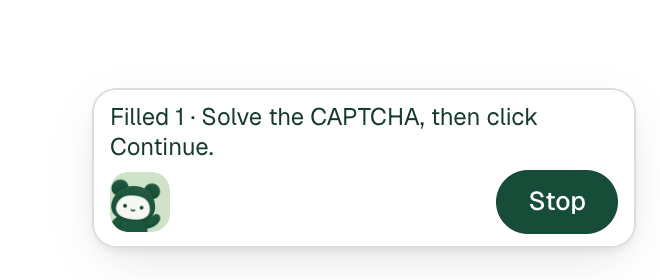
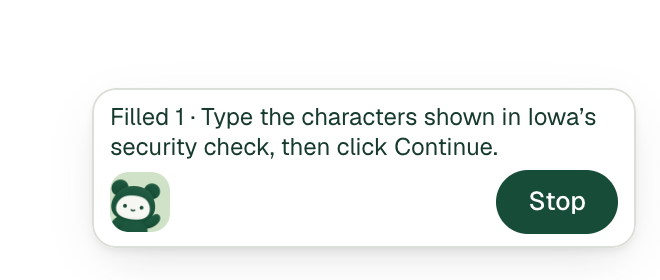
fix: name Iowa's security check in plain words
"Solve the CAPTCHA, then click Continue." is now "Type the characters
shown in Iowa's security check, then click Continue.", and the two
household lines that mention it follow, in all six languages. A test
keeps the word CAPTCHA out of every catalog.

Changed region(s): [[0.1515, 0.4857, 0.7576, 0.5714], [0.303, 0.3714, 0.9091, 0.4571]]

diff --git a/extension/strings.js b/extension/strings.js
@@ -268,7 +268,7 @@
     'iowa.reviewDependent': '{label}: review existing dependent answers',
     'iowa.choosePrograms': 'Choose at least one program',
     'iowa.manualReview': 'Check the questions and any Iowa error messages on this page, because something here isn’t what SecondHand expects',
-    'iowa.solveCaptcha': 'Solve the CAPTCHA, then click Continue.',
+    'iowa.solveCaptcha': 'Type the characters shown in Iowa’s security check, then click Continue.',
     'iowa.acceptConsent': 'Read and accept Iowa’s consent, then click Continue.',
     'iowa.signIn': 'Sign in or verify in Iowa’s form, then continue.',
     'iowa.answerPopup': 'Answer Iowa’s pop-up, then continue.',
@@ -299,7 +299,7 @@
     'iowa.startDetailsTodo': 'Answer the remaining questions, then click Save and Continue in Iowa’s form yourself.',
     'iowa.startDetailsReason': 'SecondHand can fill the answers you saved in My information on this page. Answer the other questions yourself, then click Save and Continue in Iowa’s form.',
     'iowa.clickContinue': 'Click Continue in Iowa’s form.',
-    'iowa.programIntentReason': 'Answer whether anyone is applying, then solve the CAPTCHA.',
+    'iowa.programIntentReason': 'Answer whether anyone is applying, then type the characters shown in Iowa’s security check.',
     'iowa.missingAnswers': 'Answer what is left in Iowa’s form. When the page is complete, SecondHand goes to the next one.',
     'iowa.canSaveContinue': 'SecondHand can save this page and continue. Review every answer before final submission.',
     'iowa.remainingQuestions': 'Answer the remaining questions and correct any errors in Iowa’s form.',
@@ -324,7 +324,7 @@
     'iowa.addressPageChanged': 'The address page changed after selection. Review it before continuing.',
     'iowa.nextNotActivated': 'Iowa’s Next control could not be activated. Check the page before trying again.',
     'iowa.nextUnsafe': 'The Next button is not safely accessible. Continue in Iowa’s form.',
-    'iowa.programIntentTodo': 'Answer whether anyone is applying, solve the CAPTCHA, then click Continue.',
+    'iowa.programIntentTodo': 'Answer whether anyone is applying, type the characters shown in Iowa’s security check, then click Continue.',
     'iowa.assistanceTodo': 'If nobody is helping you, leave this blank and click Continue.',
     'iowa.pickAddress': 'Pick the correct address, then click Continue.'
   });
@@ -586,7 +586,7 @@
     'iowa.reviewDependent': '{label}: revise las respuestas relacionadas que ya están',
     'iowa.choosePrograms': 'Elija al menos un programa',
     'iowa.manualReview': 'Revise las preguntas y cualquier mensaje de error de Iowa en esta página, porque algo aquí no es lo que SecondHand espera',
-    'iowa.solveCaptcha': 'Resuelva el CAPTCHA y luego haga clic en “Continue”.',
+    'iowa.solveCaptcha': 'Escriba los caracteres que muestra la prueba de seguridad de Iowa y luego haga clic en “Continue”.',
     'iowa.acceptConsent': 'Lea y acepte el consentimiento de Iowa y luego haga clic en “Continue”.',
     'iowa.signIn': 'Inicie sesión o verifique su identidad en el formulario de Iowa y luego continúe.',
     'iowa.answerPopup': 'Responda la ventana emergente de Iowa y luego continúe.',
@@ -617,7 +617,7 @@
     'iowa.startDetailsTodo': 'Conteste las preguntas restantes y luego haga clic usted mismo en “Save and Continue” en el formulario de Iowa.',
     'iowa.startDetailsReason': 'SecondHand puede llenar en esta página las respuestas que guardó en “My information”. Conteste usted mismo las demás preguntas y luego haga clic en “Save and Continue” en el formulario de Iowa.',
     'iowa.clickContinue': 'Haga clic en “Continue” en el formulario de Iowa.',
-    'iowa.programIntentReason': 'Responda si alguien está solicitando y luego resuelva el CAPTCHA.',
+    'iowa.programIntentReason': 'Responda si alguien está solicitando y luego escriba los caracteres que muestra la prueba de seguridad de Iowa.',
     'iowa.missingAnswers': 'Conteste lo que falta en el formulario de Iowa. Cuando la página esté completa, SecondHand pasará a la siguiente.',
     'iowa.canSaveContinue': 'SecondHand puede guardar esta página y continuar. Revise cada respuesta antes del envío final.',
     'iowa.remainingQuestions': 'Conteste las preguntas restantes y corrija los errores en el formulario de Iowa.',
@@ -642,7 +642,7 @@
     'iowa.addressPageChanged': 'La página de dirección cambió después de elegir. Revísela antes de continuar.',
     'iowa.nextNotActivated': 'No se pudo activar el botón “Next” de Iowa. Revise la página antes de intentarlo otra vez.',
     'iowa.nextUnsafe': 'No es seguro usar el botón “Next” desde aquí. Continúe en el formulario de Iowa.',
-    'iowa.programIntentTodo': 'Responda si alguien está solicitando, resuelva el CAPTCHA y luego haga clic en “Continue”.',
+    'iowa.programIntentTodo': 'Responda si alguien está solicitando, escriba los caracteres que muestra la prueba de seguridad de Iowa y luego haga clic en “Continue”.',
     'iowa.assistanceTodo': 'Si nadie le está ayudando, deje esto en blanco y haga clic en “Continue”.',
     'iowa.pickAddress': 'Elija la dirección correcta y luego haga clic en “Continue”.'
   });
@@ -903,7 +903,7 @@
     'iowa.reviewDependent': '{label}: hãy xem lại các câu trả lời phụ thuộc đã có',
     'iowa.choosePrograms': 'Hãy chọn ít nhất một chương trình',
     'iowa.manualReview': 'Hãy kiểm tra các câu hỏi và mọi thông báo lỗi của Iowa trên trang này, vì có điều gì đó ở đây không như SecondHand dự kiến',
-    'iowa.solveCaptcha': 'Hãy giải CAPTCHA, rồi bấm “Continue”.',
+    'iowa.solveCaptcha': 'Hãy nhập các ký tự hiện trong phần kiểm tra bảo mật của Iowa, rồi bấm “Continue”.',
     'iowa.acceptConsent': 'Hãy đọc và chấp nhận điều khoản đồng ý của Iowa, rồi bấm “Continue”.',
     'iowa.signIn': 'Hãy đăng nhập hoặc xác minh trong biểu mẫu của Iowa, rồi tiếp tục.',
     'iowa.answerPopup': 'Hãy trả lời cửa sổ bật lên của Iowa, rồi tiếp tục.',
@@ -934,7 +934,7 @@
     'iowa.startDetailsTodo': 'Hãy trả lời các câu hỏi còn lại, rồi tự bấm “Save and Continue” trong biểu mẫu của Iowa.',
     'iowa.startDetailsReason': 'SecondHand có thể điền trên trang này các câu trả lời bạn đã lưu trong “My information”. Hãy tự trả lời các câu hỏi khác, rồi bấm “Save and Continue” trong biểu mẫu của Iowa.',
     'iowa.clickContinue': 'Hãy bấm “Continue” trong biểu mẫu của Iowa.',
-    'iowa.programIntentReason': 'Hãy trả lời có ai đang xin hay không, rồi giải CAPTCHA.',
+    'iowa.programIntentReason': 'Hãy trả lời có ai đang xin hay không, rồi nhập các ký tự hiện trong phần kiểm tra bảo mật của Iowa.',
     'iowa.missingAnswers': 'Hãy trả lời những câu còn lại trong biểu mẫu của Iowa. Khi trang đã đủ, SecondHand sẽ chuyển sang trang kế tiếp.',
     'iowa.canSaveContinue': 'SecondHand có thể lưu trang này và tiếp tục. Hãy xem lại từng câu trả lời trước khi nộp lần cuối.',
     'iowa.remainingQuestions': 'Hãy trả lời các câu hỏi còn lại và sửa mọi lỗi trong biểu mẫu của Iowa.',
@@ -959,7 +959,7 @@
     'iowa.addressPageChanged': 'Trang địa chỉ đã thay đổi sau khi chọn. Hãy xem lại trước khi tiếp tục.',
     'iowa.nextNotActivated': 'Không kích hoạt được nút “Next” của Iowa. Hãy kiểm tra trang trước khi thử lại.',
     'iowa.nextUnsafe': 'Không thể bấm nút “Next” một cách an toàn. Hãy tiếp tục trong biểu mẫu của Iowa.',
-    'iowa.programIntentTodo': 'Hãy trả lời có ai đang xin hay không, giải CAPTCHA, rồi bấm “Continue”.',
+    'iowa.programIntentTodo': 'Hãy trả lời có ai đang xin hay không, nhập các ký tự hiện trong phần kiểm tra bảo mật của Iowa, rồi bấm “Continue”.',
     'iowa.assistanceTodo': 'Nếu không có ai giúp bạn, hãy để trống mục này và bấm “Continue”.',
     'iowa.pickAddress': 'Hãy chọn đúng địa chỉ, rồi bấm “Continue”.'
   });
@@ -1221,7 +1221,7 @@
     'iowa.reviewDependent': '{label}：请核对已有的相关答案',
     'iowa.choosePrograms': '请至少选择一个项目',
     'iowa.manualReview': '请检查本页的问题和爱荷华州的错误信息，因为这里有些内容与 SecondHand 预期的不一样',
-    'iowa.solveCaptcha': '请完成验证码（CAPTCHA），然后点击 “Continue”。',
+    'iowa.solveCaptcha': '请输入爱荷华州安全验证中显示的字符，然后点击 “Continue”。',
     'iowa.acceptConsent': '请阅读并接受爱荷华州的同意书，然后点击 “Continue”。',
     'iowa.signIn': '请在爱荷华州的表格中登录或验证，然后继续。',
     'iowa.answerPopup': '请回答爱荷华州的弹出窗口，然后继续。',
@@ -1252,7 +1252,7 @@
     'iowa.startDetailsTodo': '请回答其余问题，然后在爱荷华州的表格中自己点击 “Save and Continue”。',
     'iowa.startDetailsReason': 'SecondHand 可以在这个页面上填写您在“My information”中保存的答案。请自己回答其他问题，然后在爱荷华州的表格中点击 “Save and Continue”。',
     'iowa.clickContinue': '请在爱荷华州的表格中点击 “Continue”。',
-    'iowa.programIntentReason': '请回答是否有人要申请，然后完成验证码（CAPTCHA）。',
+    'iowa.programIntentReason': '请回答是否有人要申请，然后输入爱荷华州安全验证中显示的字符。',
     'iowa.missingAnswers': '请在爱荷华州的表格中回答剩下的问题。页面填完后，SecondHand 会进入下一页。',
     'iowa.canSaveContinue': 'SecondHand 可以保存这个页面并继续。最终提交前请核对每个答案。',
     'iowa.remainingQuestions': '请回答其余问题，并更正爱荷华州表格中的所有错误。',
@@ -1277,7 +1277,7 @@
     'iowa.addressPageChanged': '选择后地址页面已变化。继续之前请核对。',
     'iowa.nextNotActivated': '无法启用爱荷华州的 “Next” 按钮。重试之前请检查页面。',
     'iowa.nextUnsafe': '无法安全地点击 “Next” 按钮。请在爱荷华州的表格中继续。',
-    'iowa.programIntentTodo': '请回答是否有人要申请，完成验证码（CAPTCHA），然后点击 “Continue”。',
+    'iowa.programIntentTodo': '请回答是否有人要申请，输入爱荷华州安全验证中显示的字符，然后点击 “Continue”。',
     'iowa.assistanceTodo': '如果没有人帮助您，请将此项留空并点击 “Continue”。',
     'iowa.pickAddress': '请选择正确的地址，然后点击 “Continue”。'
   });
@@ -1539,7 +1539,7 @@
     'iowa.reviewDependent': '{label} : vérifiez les réponses liées déjà saisies',
     'iowa.choosePrograms': 'Choisissez au moins un programme',
     'iowa.manualReview': 'Vérifiez les questions et les messages d’erreur de l’Iowa sur cette page, car quelque chose ici n’est pas ce qu’attend SecondHand',
-    'iowa.solveCaptcha': 'Résolvez le CAPTCHA, puis cliquez sur « Continue ».',
+    'iowa.solveCaptcha': 'Tapez les caractères affichés dans le contrôle de sécurité de l’Iowa, puis cliquez sur « Continue ».',
     'iowa.acceptConsent': 'Lisez et acceptez le consentement de l’Iowa, puis cliquez sur « Continue ».',
     'iowa.signIn': 'Connectez-vous ou faites la vérification dans le formulaire de l’Iowa, puis continuez.',
     'iowa.answerPopup': 'Répondez à la fenêtre de l’Iowa, puis continuez.',
@@ -1570,7 +1570,7 @@
     'iowa.startDetailsTodo': 'Répondez aux autres questions, puis cliquez vous-même sur « Save and Continue » dans le formulaire de l’Iowa.',
     'iowa.startDetailsReason': 'SecondHand peut remplir sur cette page les réponses que vous avez enregistrées dans « My information ». Répondez vous-même aux autres questions, puis cliquez sur « Save and Continue » dans le formulaire de l’Iowa.',
     'iowa.clickContinue': 'Cliquez sur « Continue » dans le formulaire de l’Iowa.',
-    'iowa.programIntentReason': 'Répondez si quelqu’un fait une demande, puis résolvez le CAPTCHA.',
+    'iowa.programIntentReason': 'Répondez si quelqu’un fait une demande, puis tapez les caractères affichés dans le contrôle de sécurité de l’Iowa.',
     'iowa.missingAnswers': 'Répondez à ce qui reste dans le formulaire de l’Iowa. Quand la page est complète, SecondHand passe à la suivante.',
     'iowa.canSaveContinue': 'SecondHand peut enregistrer cette page et continuer. Vérifiez chaque réponse avant l’envoi final.',
     'iowa.remainingQuestions': 'Répondez aux questions restantes et corrigez les erreurs dans le formulaire de l’Iowa.',
@@ -1595,7 +1595,7 @@
     'iowa.addressPageChanged': 'La page d’adresse a changé après le choix. Vérifiez-la avant de continuer.',
     'iowa.nextNotActivated': 'Le bouton « Next » de l’Iowa n’a pas pu être activé. Vérifiez la page avant de réessayer.',
     'iowa.nextUnsafe': 'Le bouton « Next » n’est pas accessible en toute sécurité. Continuez dans le formulaire de l’Iowa.',
-    'iowa.programIntentTodo': 'Répondez si quelqu’un fait une demande, résolvez le CAPTCHA, puis cliquez sur « Continue ».',
+    'iowa.programIntentTodo': 'Répondez si quelqu’un fait une demande, tapez les caractères affichés dans le contrôle de sécurité de l’Iowa, puis cliquez sur « Continue ».',
     'iowa.assistanceTodo': 'Si personne ne vous aide, laissez ce champ vide et cliquez sur « Continue ».',
     'iowa.pickAddress': 'Choisissez la bonne adresse, puis cliquez sur « Continue ».'
   });
@@ -1857,7 +1857,7 @@
     'iowa.reviewDependent': '{label}: راجع الإجابات المرتبطة الموجودة',
     'iowa.choosePrograms': 'اختر برنامجًا واحدًا على الأقل',
     'iowa.manualReview': 'راجع الأسئلة وأي رسائل خطأ من أيوا في هذه الصفحة، لأن شيئًا هنا ليس كما يتوقعه SecondHand',
-    'iowa.solveCaptcha': 'حُلّ اختبار CAPTCHA، ثم انقر على “Continue”.',
+    'iowa.solveCaptcha': 'اكتب الأحرف الظاهرة في اختبار الأمان الخاص بأيوا، ثم انقر على “Continue”.',
     'iowa.acceptConsent': 'اقرأ موافقة أيوا واقبلها، ثم انقر على “Continue”.',
     'iowa.signIn': 'سجّل الدخول أو أكمل التحقق في نموذج أيوا، ثم تابع.',
     'iowa.answerPopup': 'أجب عن النافذة المنبثقة في أيوا، ثم تابع.',
@@ -1888,7 +1888,7 @@
     'iowa.startDetailsTodo': 'أجب عن الأسئلة المتبقية، ثم انقر بنفسك على “Save and Continue” في نموذج أيوا.',
     'iowa.startDetailsReason': 'يمكن لـ SecondHand أن يملأ في هذه الصفحة الإجابات التي حفظتها في “My information”. أجب بنفسك عن الأسئلة الأخرى، ثم انقر على “Save and Continue” في نموذج أيوا.',
     'iowa.clickContinue': 'انقر على “Continue” في نموذج أيوا.',
-    'iowa.programIntentReason': 'أجب هل يتقدم أحد بطلب، ثم حُلّ اختبار CAPTCHA.',
+    'iowa.programIntentReason': 'أجب هل يتقدم أحد بطلب، ثم اكتب الأحرف الظاهرة في اختبار الأمان الخاص بأيوا.',
     'iowa.missingAnswers': 'أجب عما تبقّى في نموذج أيوا. عند اكتمال الصفحة ينتقل SecondHand إلى الصفحة التالية.',
     'iowa.canSaveContinue': 'يمكن لـ SecondHand حفظ هذه الصفحة والمتابعة. راجع كل إجابة قبل الإرسال النهائي.',
     'iowa.remainingQuestions': 'أجب عن الأسئلة المتبقية وصحّح أي أخطاء في نموذج أيوا.',
@@ -1913,7 +1913,7 @@
     'iowa.addressPageChanged': 'تغيّرت صفحة العنوان بعد الاختيار. راجعها قبل المتابعة.',
     'iowa.nextNotActivated': 'تعذّر تفعيل زر “Next” في أيوا. تحقق من الصفحة قبل المحاولة مرة أخرى.',
     'iowa.nextUnsafe': 'لا يمكن الوصول إلى زر “Next” بأمان. تابع في نموذج أيوا.',
-    'iowa.programIntentTodo': 'أجب هل يتقدم أحد بطلب، وحُلّ اختبار CAPTCHA، ثم انقر على “Continue”.',
+    'iowa.programIntentTodo': 'أجب هل يتقدم أحد بطلب، واكتب الأحرف الظاهرة في اختبار الأمان الخاص بأيوا، ثم انقر على “Continue”.',
     'iowa.assistanceTodo': 'إذا لم يكن أحد يساعدك، فاترك هذا الحقل فارغًا وانقر على “Continue”.',
     'iowa.pickAddress': 'اختر العنوان الصحيح، ثم انقر على “Continue”.'
   });

diff --git a/extension/iowa-adapter.js b/extension/iowa-adapter.js
@@ -805,7 +805,7 @@
   // Steps SecondHand never operates. Each maps to a plain instruction for the applicant.
   function protectedStep(doc, headings) {
     const shown = selector => Array.from(doc.querySelectorAll(selector)).some(element => rendered(element, doc));
-    if (shown('#captchaDiv, [name="captchaAnswer"], #simpleCaptcha')) return { pageKey: 'iowa-captcha', heading: 'Security check', todo: 'Solve the CAPTCHA, then click Continue.' };
+    if (shown('#captchaDiv, [name="captchaAnswer"], #simpleCaptcha')) return { pageKey: 'iowa-captcha', heading: 'Security check', todo: 'Type the characters shown in Iowa’s security check, then click Continue.' };
     if (shown('#termChkbox')) return { pageKey: 'iowa-consent', heading: 'Let’s get started', todo: 'Read and accept Iowa’s consent, then click Continue.' };
     if (shown('input[type="password"], #securityCode')) return { pageKey: 'iowa-verification', heading: 'Sign in or verify', todo: 'Sign in or verify in Iowa’s form, then continue.' };
     if (shown('[aria-modal="true"], [role="dialog"]')) return { pageKey: 'iowa-popup', heading: 'Iowa pop-up', todo: 'Answer Iowa’s pop-up, then continue.' };
@@ -883,7 +883,7 @@
       return { ...result, kind: 'fillable', pageKey: 'iowa-program-intent', heading: 'Household Application Information', fields: scan(doc, rawUrl).fields,
         checklist: [{ key: 'householdApplyProg', label: definition.label, status, required: true, fillable: status === 'missing' }],
         requiredRemaining: Number(status === 'missing'), manualRemaining: Number(status === 'manual'),
-        reason: status === 'complete' ? 'Click Continue in Iowa’s form.' : 'Answer whether anyone is applying, then solve the CAPTCHA.',
+        reason: status === 'complete' ? 'Click Continue in Iowa’s form.' : 'Answer whether anyone is applying, then type the characters shown in Iowa’s security check.',
         ...(status === 'complete' ? { todo: 'Click Continue in Iowa’s form.' } : {}) };
     }
     if (pageId === 'personal') {
@@ -904,7 +904,7 @@
         ...(ready ? {} : { todo: 'Read this page, then click Continue in Iowa’s form.' }) };
     }
     const known = [
-      ['household application information', 'iowa-program-intent', 'Household Application Information', 'Answer whether anyone is applying, solve the CAPTCHA, then click Continue.'],
+      ['household application information', 'iowa-program-intent', 'Household Application Information', 'Answer whether anyone is applying, type the characters shown in Iowa’s security check, then click Continue.'],
       ['assisting organization or person', 'iowa-assistance', 'Assisting Organization or Person', 'If nobody is helping you, leave this blank and click Continue.'],
       ['select address', 'iowa-select-address', 'Select Address', 'Pick the correct address, then click Continue.'],
       ['about you', 'iowa-about-you', 'About you', 'Click Continue in Iowa’s form.']
